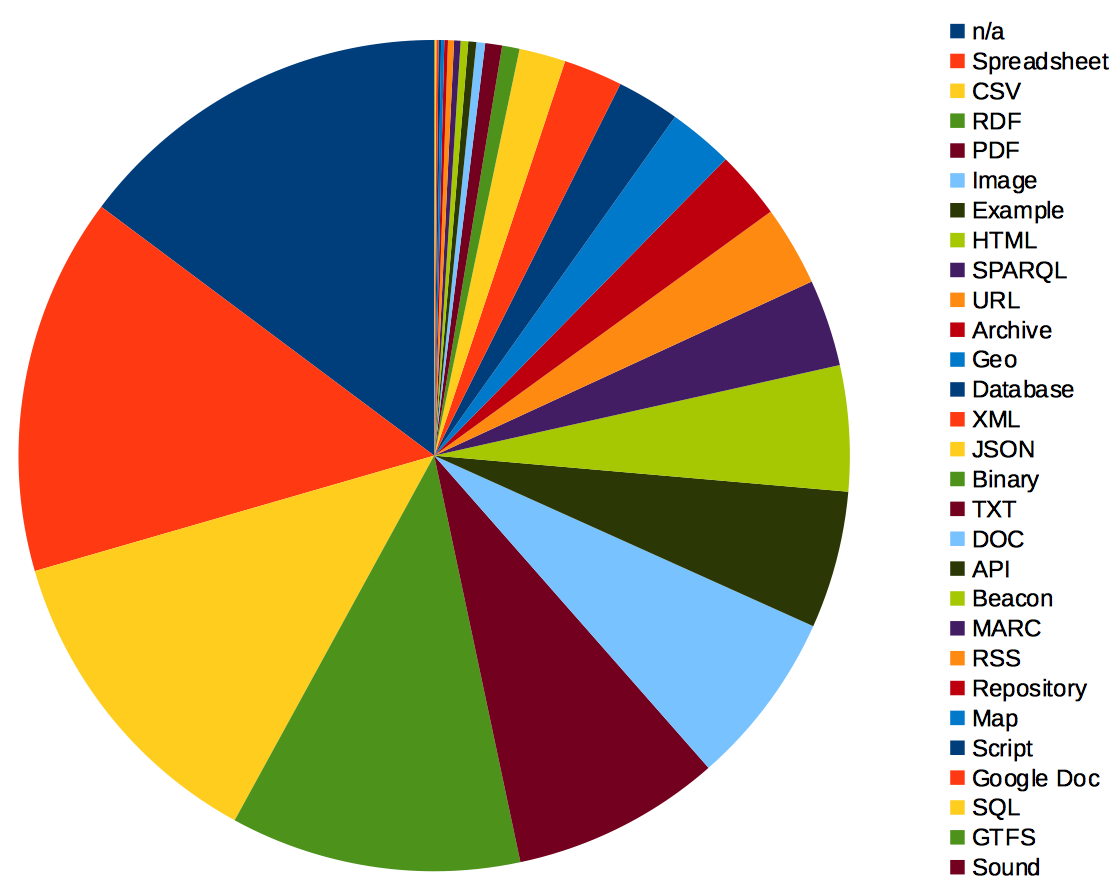
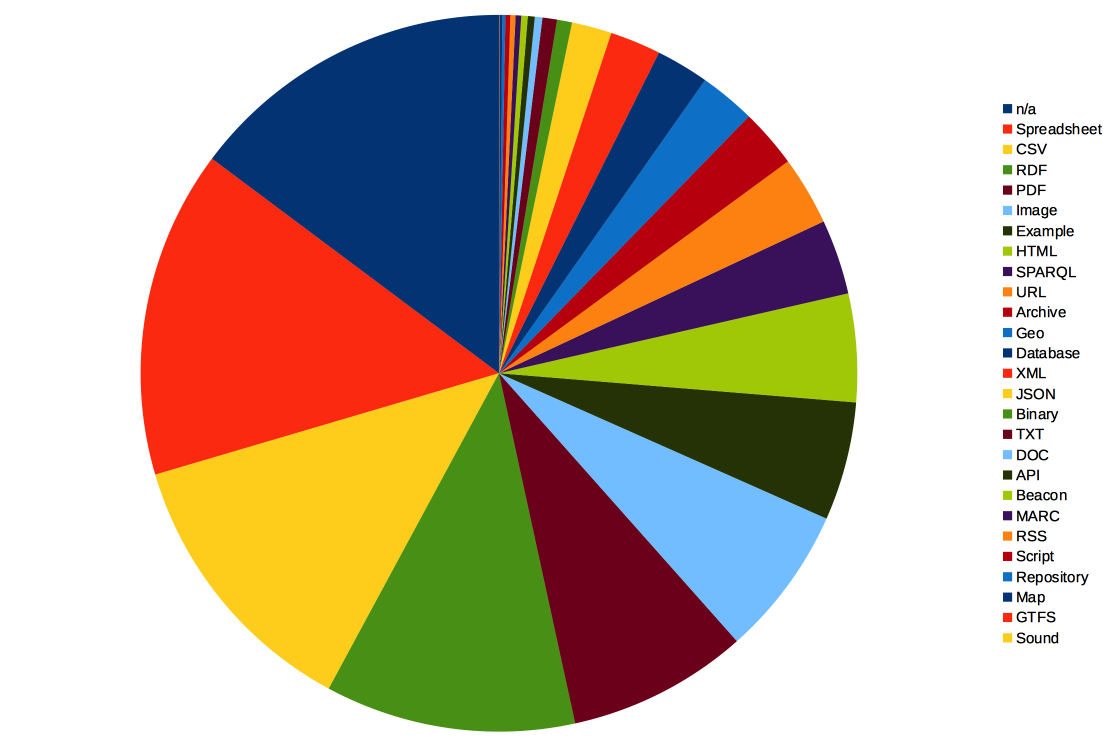
minor changes in mapping table

diff --git a/Readme.md b/Readme.md
@@ -188,13 +188,13 @@ The final view then selects any null-valued format:
 	drop view datahubio2;;
 	create view datahubio2 as
 	select dataset_id, dataset_name, dataset_license_title, dataset_license_id, 
-       dataset_is_open, dataset_tracking_summary_total, dataset_tracking_summary_recent, 
-       resource_id, resource_name, resource_created, resource_revision_timestamp, 
-       resource_format, resource_url, resource_tracking_summary_total, 
-       resource_tracking_summary_recent, trim(coalesce(b.format, a.format, 'n/a')) as unified_format from datahubio
+	   dataset_is_open, dataset_tracking_summary_total, dataset_tracking_summary_recent, 
+	   resource_id, resource_name, resource_created, resource_revision_timestamp, 
+	   resource_format, resource_url, resource_tracking_summary_total, 
+	   resource_tracking_summary_recent, trim(coalesce(b.format, a.format, 'n/a')) as unified_format, trim(coalesce(b.star, a.star, 'n/a')) as star from datahubio
 	left outer join mptbl as a on lower(trim(resource_format)) like lower(a.expr)
 	-- desperate mode: try to map unknown formats via possible resource_url-extensions
-	left outer join mptbl as b on (a.format = 'n/a' and lower(substring(trim(resource_url) from '...$')) like b.expr)
+	left outer join mptbl as b on (a.format = 'n/a' and lower(substring(trim(resource_url) from '...$')) like b.expr)	
 
 
 ## Insights in unified data
@@ -208,7 +208,7 @@ The final view then selects any null-valued format:
 unified_format|count|%
 ----|----|----
 n/a|2983|14.78%
-Spreadsheet|2966|14.70%
+Spreadsheet|2983|14.78%
 CSV|2533|12.55%
 RDF|2279|11.29%
 PDF|1643|8.14%
@@ -219,7 +219,7 @@ SPARQL|682|3.38%
 URL|627|3.11%
 Archive|534|2.65%
 Geo|511|2.53%
-Database|493|2.44%
+Database|481|2.38%
 XML|463|2.29%
 JSON|364|1.80%
 Binary|137|0.68%
@@ -229,11 +229,9 @@ API|63|0.31%
 Beacon|59|0.29%
 MARC|51|0.25%
 RSS|47|0.23%
+Script|44|0.22%
 Repository|28|0.14%
 Map|25|0.12%
-Script|20|0.10%
-Google Doc|17|0.08%
-SQL|12|0.06%
 GTFS|3|0.01%
 Sound|2|0.01%
 
